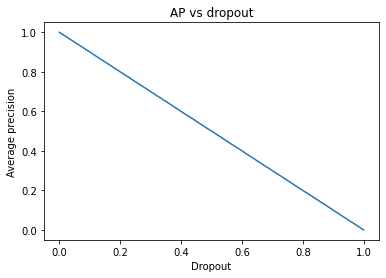
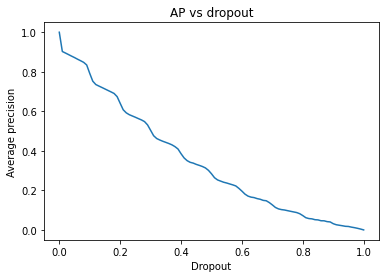
AP noise and dropout

diff --git a/w1/eval.py b/w1/eval.py
@@ -428,17 +428,18 @@ def test_iou_std(
         mIoU[id] = np.mean(ious)
 
     plt.plot(vec_std,mIoU)
-    plt.title('AP vs normal noise')
-    plt.ylabel('Average precision')
+    plt.title('mIoU vs normal noise')
+    plt.ylabel('Mean Intersect over Union')
     plt.xlabel('Standard deviation [px]')
     
     return mIoU
+
 
 def test_iou_drop(
         gt_path: str,
 ) -> float:
     """
-    Test function to analyze IoU when adding normal noise.
+    Test function to analyze IoU when adding dropout.
 
     Parameters
     ----------
@@ -492,8 +493,180 @@ def test_iou_drop(
         mIoU[id] = np.mean(ious)
 
     plt.plot(vec_prob,mIoU)
+    plt.title('mIoU vs dropout')
+    plt.ylabel('Mean Intersect over Union')
+    plt.xlabel('Dropout')
+    
+    return mIoU
+
+
+def test_ap_drop(
+        gt_path: str,
+) -> float:
+    """
+    Test function to analyze AP when adding dropout.
+
+    Parameters
+    ----------
+    gt_path: str
+        Path to the ground truth data.
+
+    Returns
+    -------
+    float
+        AP mean value.
+    """
+
+    truth = load_annotations(gt_path)
+    truth = vectorise_annotations(truth)
+    correct = 0
+    total = 0
+
+    vec_prob = np.arange(0,1.001,0.01)
+    mAP = np.zeros(vec_prob.shape)
+    area_r = (truth[:, 2] - truth[:, 0]) * (truth[:, 3] - truth[:, 1])
+    for id, prob in enumerate(vec_prob):
+        aps = []
+        print(prob)
+        for jjj in np.arange(1000):
+            # iou_normal = iou(truth, truth + np.random.normal(0,std,truth.shape))
+            # decision = np.random.rand(len(pred)) > prob
+            pred = copy.deepcopy(truth)
+            pred[np.random.rand(len(truth)) < prob] = [0, 0, 0, 0]
+            
+            intr_x = np.min((truth[:, 2], pred[:, 2]), axis=0) - \
+                np.max((truth[:, 0], pred[:, 0]), axis=0)
+            intr_x = np.maximum(intr_x,0)
+            intr_y = np.min((truth[:, 3], pred[:, 3]), axis=0) - \
+                np.max((truth[:, 1], pred[:, 1]), axis=0)
+            intr_y = np.maximum(intr_y, 0)
+
+            intr_t = intr_x * intr_y
+
+            # Union
+            
+            area_c = (pred[:, 2] - pred[:, 0]) * (pred[:, 3] - pred[:, 1])
+            area_c = np.maximum(area_c, 0)
+            
+            union = area_r + area_c - intr_t
+
+            iou_normal = intr_t / union
+        
+            # for i in np.arange(iou_normal.shape[0]):
+            # ious.append(iou_normal)
+            
+            tp = copy.deepcopy(iou_normal)
+            tp[iou_normal<0.5] = 0
+            tp[iou_normal>=0.5] = 1
+            tp_evol = np.cumsum(tp)
+            pre = tp_evol / np.arange(1, tp_evol.shape[0] + 1)
+            rec = tp_evol / truth.shape[0]
+
+            curr_max = -1
+            out_pre = np.zeros_like(pre)
+
+            for ii in range(len(pre)):
+                curr_max = max(pre[len(pre) - ii - 1], curr_max)
+                out_pre[len(pre) - ii - 1] = curr_max
+
+            sampling_points = np.arange(0.0, 1.01, 0.1)
+            pre_ind = rec[None,:] >= sampling_points[:, None]
+            pre_ind = np.where(np.any(pre_ind, axis=1), np.argmax(pre_ind, axis=1), -1)
+
+            ap = sum(np.where(pre_ind >= 0, out_pre[pre_ind], 0.0)) / 11
+            
+            aps.append(ap)
+                    
+        mAP[id] = np.mean(aps)
+
+    plt.plot(vec_prob,mAP)
     plt.title('AP vs dropout')
     plt.ylabel('Average precision')
     plt.xlabel('Dropout')
     
-    return mIoU
+    return mAP
+
+
+def test_ap_std(
+        gt_path: str,
+) -> float:
+    """
+    Test function to analyze AP when adding normal noise.
+
+    Parameters
+    ----------
+    gt_path: str
+        Path to the ground truth data.
+
+    Returns
+    -------
+    float
+        AP mean value.
+    """
+
+    truth = load_annotations(gt_path)
+    truth = vectorise_annotations(truth)
+    correct = 0
+    total = 0
+
+    vec_std = np.arange(0,250.1,1)
+    mAP = np.zeros(vec_std.shape)
+    area_r = (truth[:, 2] - truth[:, 0]) * (truth[:, 3] - truth[:, 1])
+    for id, std in enumerate(vec_std):
+        aps = []
+        print(std)
+        for jjj in np.arange(1000):
+            # iou_normal = iou(truth, truth + np.random.normal(0,std,truth.shape))
+            pred = truth + np.random.normal(0,std,truth.shape)
+            
+            intr_x = np.min((truth[:, 2], pred[:, 2]), axis=0) - \
+                np.max((truth[:, 0], pred[:, 0]), axis=0)
+            intr_x = np.maximum(intr_x,0)
+            intr_y = np.min((truth[:, 3], pred[:, 3]), axis=0) - \
+                np.max((truth[:, 1], pred[:, 1]), axis=0)
+            intr_y = np.maximum(intr_y, 0)
+
+            intr_t = intr_x * intr_y
+
+            # Union
+            
+            area_c = (pred[:, 2] - pred[:, 0]) * (pred[:, 3] - pred[:, 1])
+            area_c = np.maximum(area_c, 0)
+            
+            union = area_r + area_c - intr_t
+
+            iou_normal = intr_t / union
+        
+            # for i in np.arange(iou_normal.shape[0]):
+            # ious.append(iou_normal)
+            
+            tp = copy.deepcopy(iou_normal)
+            tp[iou_normal<0.5] = 0
+            tp[iou_normal>=0.5] = 1
+            tp_evol = np.cumsum(tp)
+            pre = tp_evol / np.arange(1, tp_evol.shape[0] + 1)
+            rec = tp_evol / truth.shape[0]
+
+            curr_max = -1
+            out_pre = np.zeros_like(pre)
+
+            for ii in range(len(pre)):
+                curr_max = max(pre[len(pre) - ii - 1], curr_max)
+                out_pre[len(pre) - ii - 1] = curr_max
+
+            sampling_points = np.arange(0.0, 1.01, 0.1)
+            pre_ind = rec[None,:] >= sampling_points[:, None]
+            pre_ind = np.where(np.any(pre_ind, axis=1), np.argmax(pre_ind, axis=1), -1)
+
+            ap = sum(np.where(pre_ind >= 0, out_pre[pre_ind], 0.0)) / 11
+            
+            aps.append(ap)
+                    
+        mAP[id] = np.mean(aps)
+
+    plt.plot(vec_std,mAP)
+    plt.title('AP vs normal noise')
+    plt.ylabel('Average precision')
+    plt.xlabel('Standard deviation [px]')
+    
+    return mAP
